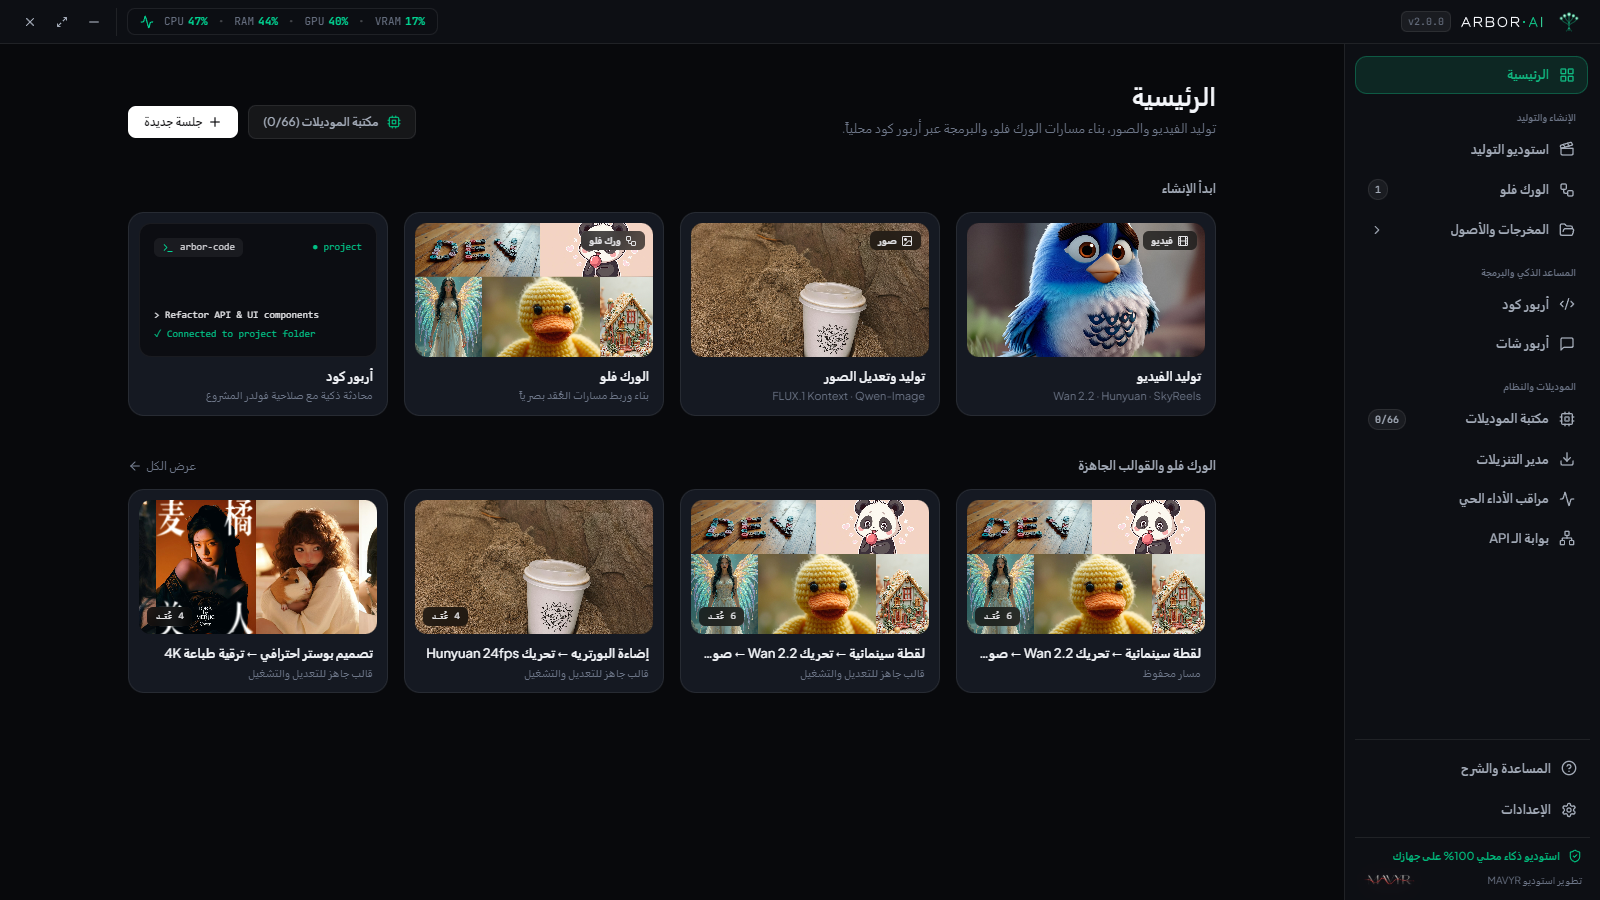
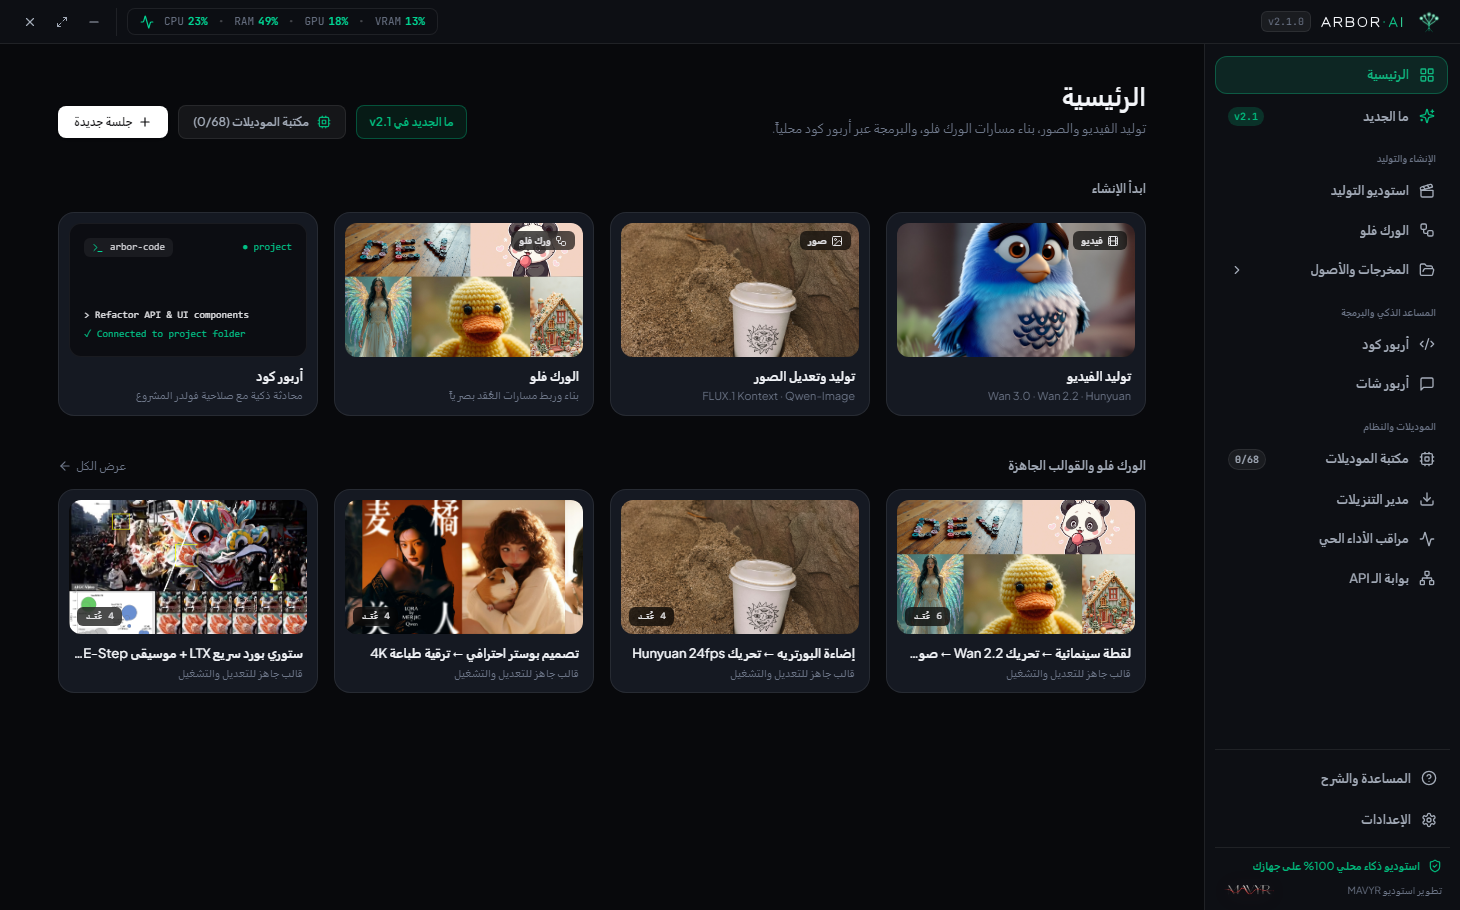
chore(release): publish v2.1.0 showcase and MAVYR Studio branding

diff --git a/index.html b/index.html
@@ -492,6 +492,73 @@
       pointer-events: auto;
     }
 
+    /* ==================== WHAT'S NEW IN v2.1 SECTION ==================== */
+    .whatsnew-section {
+      padding: 108px 0;
+      border-top: 1px solid var(--border-hairline);
+    }
+
+    .whatsnew-pill {
+      display: inline-flex;
+      align-items: center;
+      gap: 8px;
+      padding: 6px 14px;
+      border-radius: 999px;
+      border: 1px solid var(--border-strong);
+      background: rgba(255, 255, 255, 0.04);
+      font-size: 0.78rem;
+      color: var(--ivory);
+      margin-bottom: 16px;
+    }
+
+    .whatsnew-grid {
+      display: grid;
+      grid-template-columns: repeat(2, 1fr);
+      gap: 24px;
+      margin-top: 44px;
+    }
+
+    @media (max-width: 860px) {
+      .whatsnew-grid {
+        grid-template-columns: 1fr;
+      }
+    }
+
+    .whatsnew-card {
+      border-radius: 18px;
+      background: var(--bg-surface);
+      border: 1px solid var(--border-hairline);
+      overflow: hidden;
+      transition: border-color 240ms ease, transform 320ms var(--ease-out-expo);
+      cursor: zoom-in;
+    }
+    .whatsnew-card:hover {
+      border-color: var(--border-strong);
+      transform: translate3d(0, -4px, 0);
+    }
+    .whatsnew-card img {
+      display: block;
+      width: 100%;
+      aspect-ratio: 16 / 10;
+      object-fit: cover;
+      object-position: top center;
+      border-bottom: 1px solid var(--border-hairline);
+    }
+    .whatsnew-card-body {
+      padding: 22px 24px;
+    }
+    .whatsnew-card-body h3 {
+      font-size: 1.06rem;
+      font-weight: 600;
+      color: var(--text-primary);
+      margin-bottom: 8px;
+    }
+    .whatsnew-card-body p {
+      font-size: 0.9rem;
+      color: var(--text-secondary);
+      line-height: 1.68;
+    }
+
     /* ==================== PARALLAX DUAL THEME & TELEMETRY SHOWCASE ==================== */
     .craft-section {
       padding: 110px 0;
@@ -896,6 +963,7 @@
       </a>
 
       <div class="nav-actions">
+        <a href="#whats-new-v21" class="ghost-pill" style="text-decoration: none;" data-i18n="navWhatsNew">ما الجديد في v2.1</a>
         <button type="button" class="ghost-pill" id="langBtn">English</button>
         <a href="https://github.com/abdelrhmanmahmoud9854-creator/arbor-ai-releases/releases/latest/download/Arbor_AI_Setup.exe" class="nav-cta" id="navDownloadBtn">
           <span data-i18n="navCta">تحميل لويندوز</span>
@@ -925,9 +993,9 @@
             </a>
 
             <div class="hero-specs">
-              <span><strong class="mono" id="releaseVersionText">v2.0.0 Stable</strong></span>
+              <span><strong class="mono" id="releaseVersionText">v2.1.0 Stable</strong></span>
               <span>·</span>
-              <span><strong class="mono" id="releaseSizeText">253 MB · Single Setup</strong></span>
+              <span><strong class="mono" id="releaseSizeText">254 MB · Single Setup</strong></span>
               <span>·</span>
               <span><strong>Windows 10 / 11 (64-bit)</strong></span>
               <span>·</span>
@@ -975,8 +1043,8 @@
               </button>
 
               <button type="button" class="chapter-btn" data-chapter="3">
-                <h3 data-i18n="ch4Title">مكتبة 66 موديلاً مفتوح المصدر</h3>
-                <p data-i18n="ch4Desc">يبدأ البرنامج خفيفاً بصفر موديلات مسبقة؛ استعرض مواصفات العتاد وحمّل ما تختاره فقط عبر مدير تنزيلات مستقل.</p>
+                <h3 data-i18n="ch4Title">مكتبة 68 موديلاً مفتوح المصدر</h3>
+                <p data-i18n="ch4Desc">يبدأ البرنامج خفيفاً بصفر موديلات مسبقة؛ استعرض مواصفات العتاد وحمّل ما تختاره فقط بما فيها Wan 3.0 الجديد.</p>
                 <div class="chapter-progress"><div class="chapter-progress-fill"></div></div>
               </button>
             </div>
@@ -985,9 +1053,54 @@
               <img src="assets/screen-studio.png" alt="Generative Studio" class="scrolly-slide-img active" data-slide="0" />
               <img src="assets/screen-node-editor.png" alt="Node Graph Editor" class="scrolly-slide-img" data-slide="1" />
               <img src="assets/screen-code.png" alt="Arbor Code" class="scrolly-slide-img" data-slide="2" />
-              <img src="assets/screen-models.png" alt="66 Open Models Library" class="scrolly-slide-img" data-slide="3" />
+              <img src="assets/v21_wan30_models.png" alt="68 Open Models Library" class="scrolly-slide-img" data-slide="3" />
             </div>
           </div>
+        </div>
+      </div>
+    </section>
+
+    <!-- 2.5 WHAT'S NEW IN RELEASE v2.1 -->
+    <section class="whatsnew-section" id="whats-new-v21">
+      <div class="container">
+        <div class="section-intro" data-reveal>
+          <div class="whatsnew-pill mono">RELEASE v2.1 · WHAT'S NEW</div>
+          <h2 data-i18n="wnHeading">ما الجديد في الإصدار v2.1</h2>
+          <p data-i18n="wnSub">إضافات عملية مصوّرة صُممت لرفع جودة الإنتاج وسرعة البرمجة والتوافق مع كل أجهزة ويندوز.</p>
+        </div>
+
+        <div class="whatsnew-grid">
+          <article class="whatsnew-card" data-zoom="assets/v21_wan30_models.png" data-reveal>
+            <img src="assets/v21_wan30_models.png" alt="Wan 3.0 Cinema & Turbo Video" />
+            <div class="whatsnew-card-body">
+              <h3 data-i18n="wn1Title">محرك الفيديو المفتوح Wan 3.0 بنسختين</h3>
+              <p data-i18n="wn1Desc">أضفنا Wan 3.0 Cinema لإخراج المشاهد السينمائية بدقة 1080p، ونسخة Wan 3.0 Turbo 5B السريعة المتوافقة مع كروت 8GB VRAM.</p>
+            </div>
+          </article>
+
+          <article class="whatsnew-card" data-zoom="assets/v21_smart_router.png" data-reveal style="--delay: 90ms;">
+            <img src="assets/v21_smart_router.png" alt="Smart Multi-API Router" />
+            <div class="whatsnew-card-body">
+              <h3 data-i18n="wn2Title">الموجّه الذكي ومفاتيح الـ API المجانية</h3>
+              <p data-i18n="wn2Desc">اربط حساباتك المجانية من Groq وGemini وOpenRouter وCerebras في ثوانٍ داخل أربور كود مع تبديل تلقائي فوري بدون انقطاع.</p>
+            </div>
+          </article>
+
+          <article class="whatsnew-card" data-zoom="assets/v21_download_manager.png" data-reveal>
+            <img src="assets/v21_download_manager.png" alt="Cross-PC Download Engine" />
+            <div class="whatsnew-card-body">
+              <h3 data-i18n="wn3Title">مدير تنزيلات ذكي متوافق مع كل الأجهزة</h3>
+              <p data-i18n="wn3Desc">تعرّف تلقائي على أقراص التخزين المتاحة على أي كمبيوتر أو لابتوب، مع قراءة حية للمساحة وإيقاف واستكمال فوري للتحميل.</p>
+            </div>
+          </article>
+
+          <article class="whatsnew-card" data-zoom="assets/v21_whats_new.png" data-reveal style="--delay: 90ms;">
+            <img src="assets/v21_whats_new.png" alt="In-App What's New Tab" />
+            <div class="whatsnew-card-body">
+              <h3 data-i18n="wn4Title">تبويب «ما الجديد» وإعدادات تحديث أنقى</h3>
+              <p data-i18n="wn4Desc">صفحة مدمجة داخل البرنامج تعرض أحدث المزايا بالصور التوضيحية وأزرار التجربة الفورية، مع تحديثات رسمية بضغطة واحدة.</p>
+            </div>
+          </article>
         </div>
       </div>
     </section>
@@ -1083,7 +1196,7 @@
                   يعمل المثبّت بصلاحيات المستخدم القياسية الآمنة دون طلب صلاحيات مسؤول النظام. عند فتح نسخة جديدة لأول مرة على Windows، في حال ظهور تنبيه SmartScreen القياسي اضغط «More info / مزيد من المعلومات» ثم «Run anyway / تشغيل على أي حال».
                 </p>
                 <div class="hash-strip">
-                  <span class="hash-code mono" id="shaHashValue">SHA-256: 76419c4c731016667000b4e37cefeb82bb75ca70c7fed8bbd3d1e8105b0c1867</span>
+                  <span class="hash-code mono" id="shaHashValue">SHA-256: 0c3942f8826ddc53f3b3b5cea2a7b4066a07533dd567933c0ea7cca80d343237</span>
                   <button type="button" class="copy-mini-btn" id="copyHashBtn" data-i18n="copyBtn">نسخ</button>
                 </div>
               </div>
@@ -1134,6 +1247,7 @@
   <script>
     const I18N = {
       ar: {
+        navWhatsNew: 'ما الجديد في v2.1',
         navCta: 'تحميل لويندوز',
         heroTitle: 'استوديو الذكاء الاصطناعي المتكامل، مصمم بمعايير السينما.',
         heroSub: 'بيئة مكتبية واحدة تجمع توليد الفيديو والصور والصوت، مسارات النود المرئية، ومساعد البرمجة المحلي أربور كود — بأداء فوري وخصوصية كاملة من تطوير MAVYR Studio.',
@@ -1146,8 +1260,18 @@
         ch2Desc: 'ابنِ سلاسل إنتاج متقدمة واربط عقد التوليد والتحسين مع إضافة سريعة بالزر الأيمن وترتيب هندسي فوري.',
         ch3Title: 'أربور كود للبرمجة المحلية',
         ch3Desc: 'اربط أي مجلد مشروع على جهازك ليقرأ المساعد البرمجي ملفاتك ويبني معك الكود مباشرة بأسلوب احترافي نظيف.',
-        ch4Title: 'مكتبة 66 موديلاً مفتوح المصدر',
-        ch4Desc: 'يبدأ البرنامج خفيفاً بصفر موديلات مسبقة؛ استعرض مواصفات العتاد وحمّل ما تختاره فقط عبر مدير تنزيلات مستقل.',
+        ch4Title: 'مكتبة 68 موديلاً مفتوح المصدر',
+        ch4Desc: 'يبدأ البرنامج خفيفاً بصفر موديلات مسبقة؛ استعرض مواصفات العتاد وحمّل ما تختاره فقط بما فيها Wan 3.0 الجديد.',
+        wnHeading: 'ما الجديد في الإصدار v2.1',
+        wnSub: 'إضافات عملية مصوّرة صُممت لرفع جودة الإنتاج وسرعة البرمجة والتوافق مع كل أجهزة ويندوز.',
+        wn1Title: 'محرك الفيديو المفتوح Wan 3.0 بنسختين',
+        wn1Desc: 'أضفنا Wan 3.0 Cinema لإخراج المشاهد السينمائية بدقة 1080p، ونسخة Wan 3.0 Turbo 5B السريعة المتوافقة مع كروت 8GB VRAM.',
+        wn2Title: 'الموجّه الذكي ومفاتيح الـ API المجانية',
+        wn2Desc: 'اربط حساباتك المجانية من Groq وGemini وOpenRouter وCerebras في ثوانٍ داخل أربور كود مع تبديل تلقائي فوري بدون انقطاع.',
+        wn3Title: 'مدير تنزيلات ذكي متوافق مع كل الأجهزة',
+        wn3Desc: 'تعرّف تلقائي على أقراص التخزين المتاحة على أي كمبيوتر أو لابتوب، مع قراءة حية للمساحة وإيقاف واستكمال فوري للتحميل.',
+        wn4Title: 'تبويب «ما الجديد» وإعدادات تحديث أنقى',
+        wn4Desc: 'صفحة مدمجة داخل البرنامج تعرض أحدث المزايا بالصور التوضيحية وأزرار التجربة الفورية، مع تحديثات رسمية بضغطة واحدة.',
         craftHeading: 'دقة بصرية في الوضع الليلي والنهاري.',
         craftSub: 'هوية لونية متوازنة تدعم العربية والإنجليزية بسلاسة، مع مراقبة لحظية لاستهلاك كرت الشاشة والمعالج.',
         pDarkTitle: 'الوضع الليلي السينمائي (Obsidian)',
@@ -1178,6 +1302,7 @@
         footerCopy: 'جميع الحقوق محفوظة © 2026 MAVYR Studio. برنامج محمي بحقوق الملكية الفكرية.'
       },
       en: {
+        navWhatsNew: "What's New in v2.1",
         navCta: 'Download for Windows',
         heroTitle: 'The unified AI workstation, crafted to cinema standards.',
         heroSub: 'One native desktop environment uniting generative video, image & audio, visual node pipelines, and local project coding—engineered with full local privacy by MAVYR Studio.',
@@ -1190,8 +1315,18 @@
         ch2Desc: 'Build multi-stage creative pipelines with right-click node insertion and clean geometric auto-layout.',
         ch3Title: 'Arbor Code Local Workspace',
         ch3Desc: 'Bind any project folder on your machine so Arbor Code inspects, creates, and refactors files directly on disk.',
-        ch4Title: '66 Open-Source Models Library',
-        ch4Desc: 'Ships lightweight with zero pre-installed bloat—check exact VRAM specs and download only the models you choose.',
+        ch4Title: '68 Open-Source Models Library',
+        ch4Desc: 'Ships lightweight with zero pre-installed bloat—check exact VRAM specs and download only the models you choose, including Wan 3.0.',
+        wnHeading: "What's New in Release v2.1",
+        wnSub: 'Visual highlights designed to elevate creative video quality, multi-API coding speed, and cross-PC reliability.',
+        wn1Title: 'Open-Source Wan 3.0 Cinema & Turbo',
+        wn1Desc: 'Added Wan 3.0 Cinema for 1080p multi-shot scenes alongside Wan 3.0 Turbo 5B engineered for fast 8 GB VRAM GPUs.',
+        wn2Title: 'Smart Multi-API Router & Free Keys',
+        wn2Desc: 'Connect free keys from Groq, Gemini, OpenRouter, and Cerebras inside Arbor Code with seamless automatic failover.',
+        wn3Title: 'Universal Cross-PC Download Manager',
+        wn3Desc: 'Automatically detects writable storage across every Windows PC and laptop with live speed charts, pause/resume, and 1-click retry.',
+        wn4Title: "In-App What's New Hub & Clean Updates",
+        wn4Desc: 'Explore visual release highlights with 1-click Try Now actions right inside the app, plus streamlined one-click updates.',
         craftHeading: 'Precision across Obsidian Dark & Studio Daylight.',
         craftSub: 'Calibrated contrast in both Arabic and English alongside live 1-second GPU, VRAM, CPU, and RAM profiling.',
         pDarkTitle: 'Cinema Obsidian Mode',
@@ -1224,7 +1359,7 @@
     };
 
     let currentLang = 'ar';
[2 lines of base64/hex data omitted]
     const prefersReducedMotion = window.matchMedia('(prefers-reduced-motion: reduce)').matches;
 
     // 1. Language Switcher
